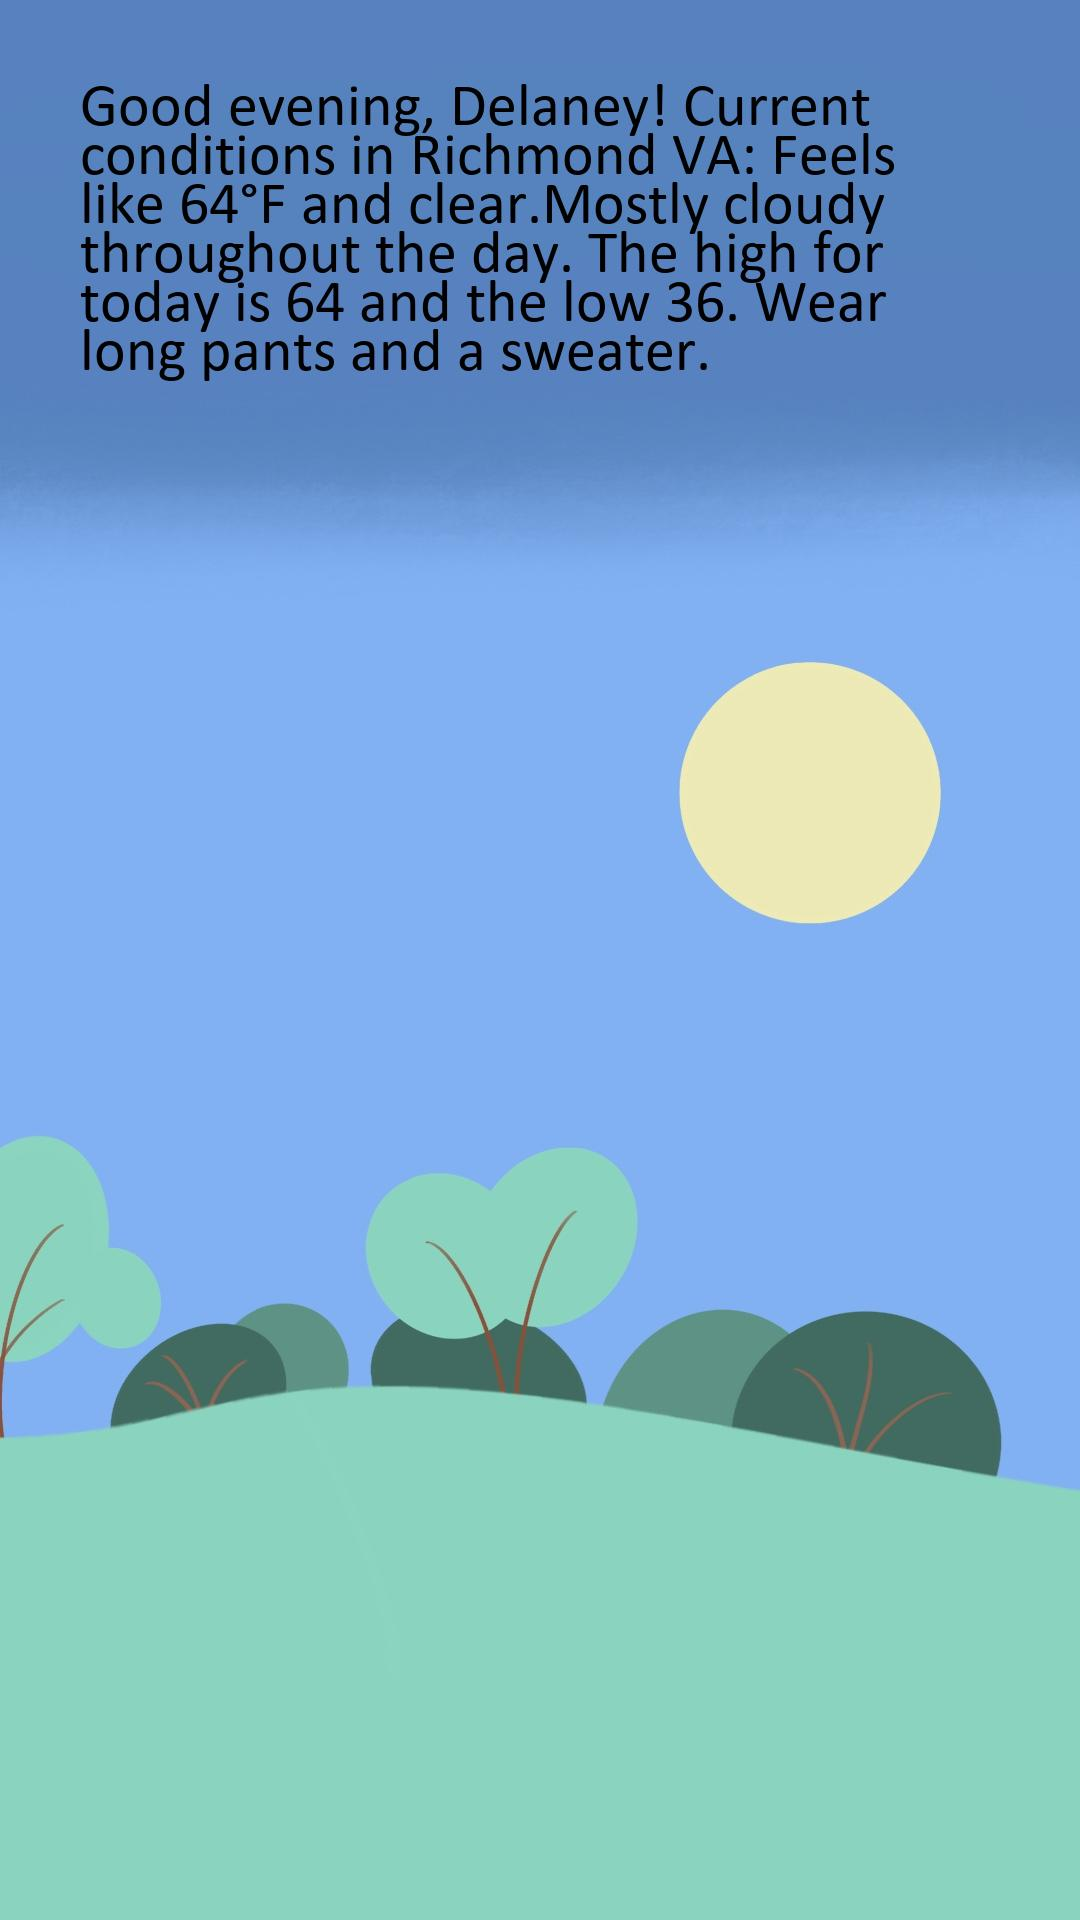
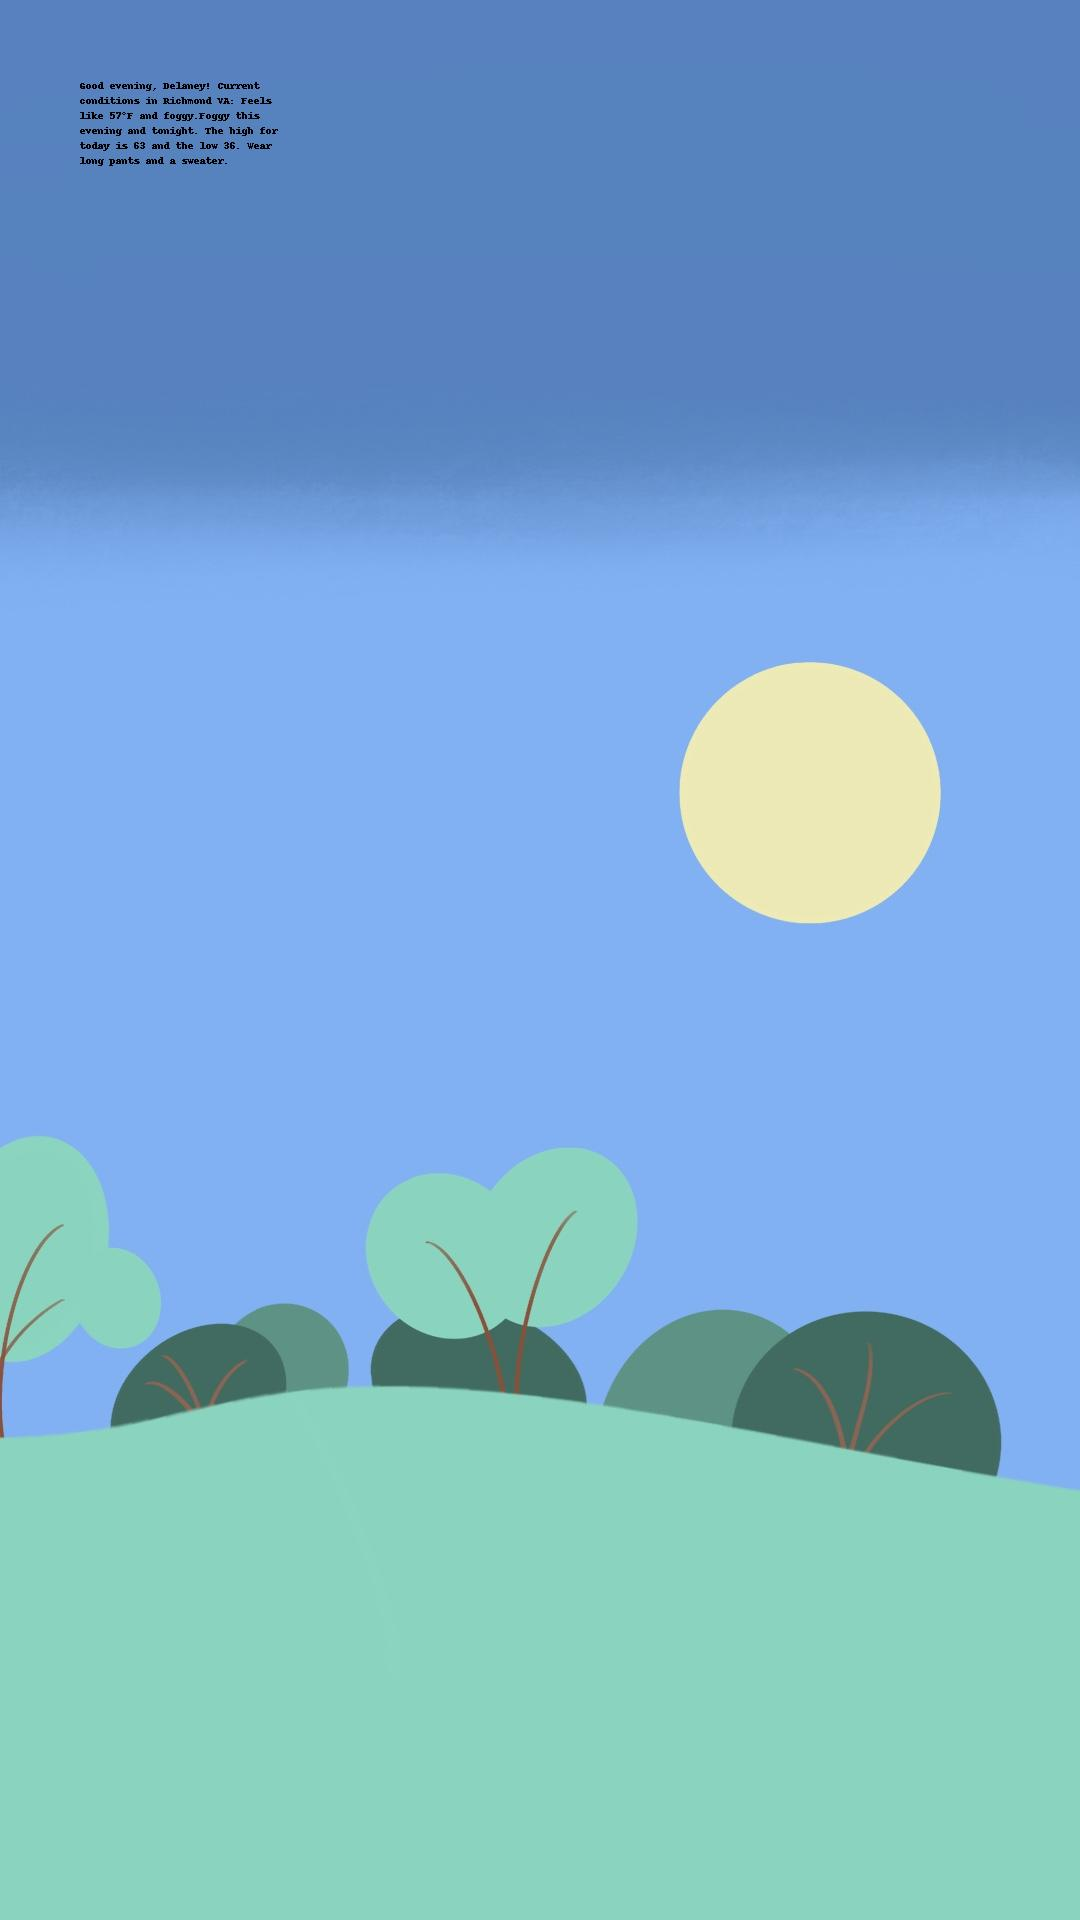
font fixes

Changed region(s): [[0.0611, 0.0312, 0.825, 0.2188]]

diff --git a/MMSimage.py b/MMSimage.py
@@ -7,12 +7,13 @@ def img(customer_id):
     message, icon = msg.msg(customer_id)
     icon = 'clear-day'
 
-    font = ImageFont.truetype('~/.local/share/fonts/CALIBRI.TTF', 60)
+    font = ImageFont.truetype(r'C:\Windows\Fonts\CALIBRI.ttf', 60)
 
     image = Image.open('Weather-Photos/templates/{}.jpg'.format(icon))
 
     draw = ImageDraw.Draw(image)
-    draw.text(xy=(80, 80), text="\n".join(textwrap.wrap(message, width=35)), fill=(0, 0, 0))
+    draw.text(xy=(80, 80), text="\n".join(textwrap.wrap(message, width=35)), fill=(0, 0, 0), font=font)
     image.save('Weather-Photos/updates/user{}.jpg'.format(customer_id))
 
     return 'http://192.241.149.241:8000/Weather-Photos/updates/user{}.jpg'.format(customer_id)
+
